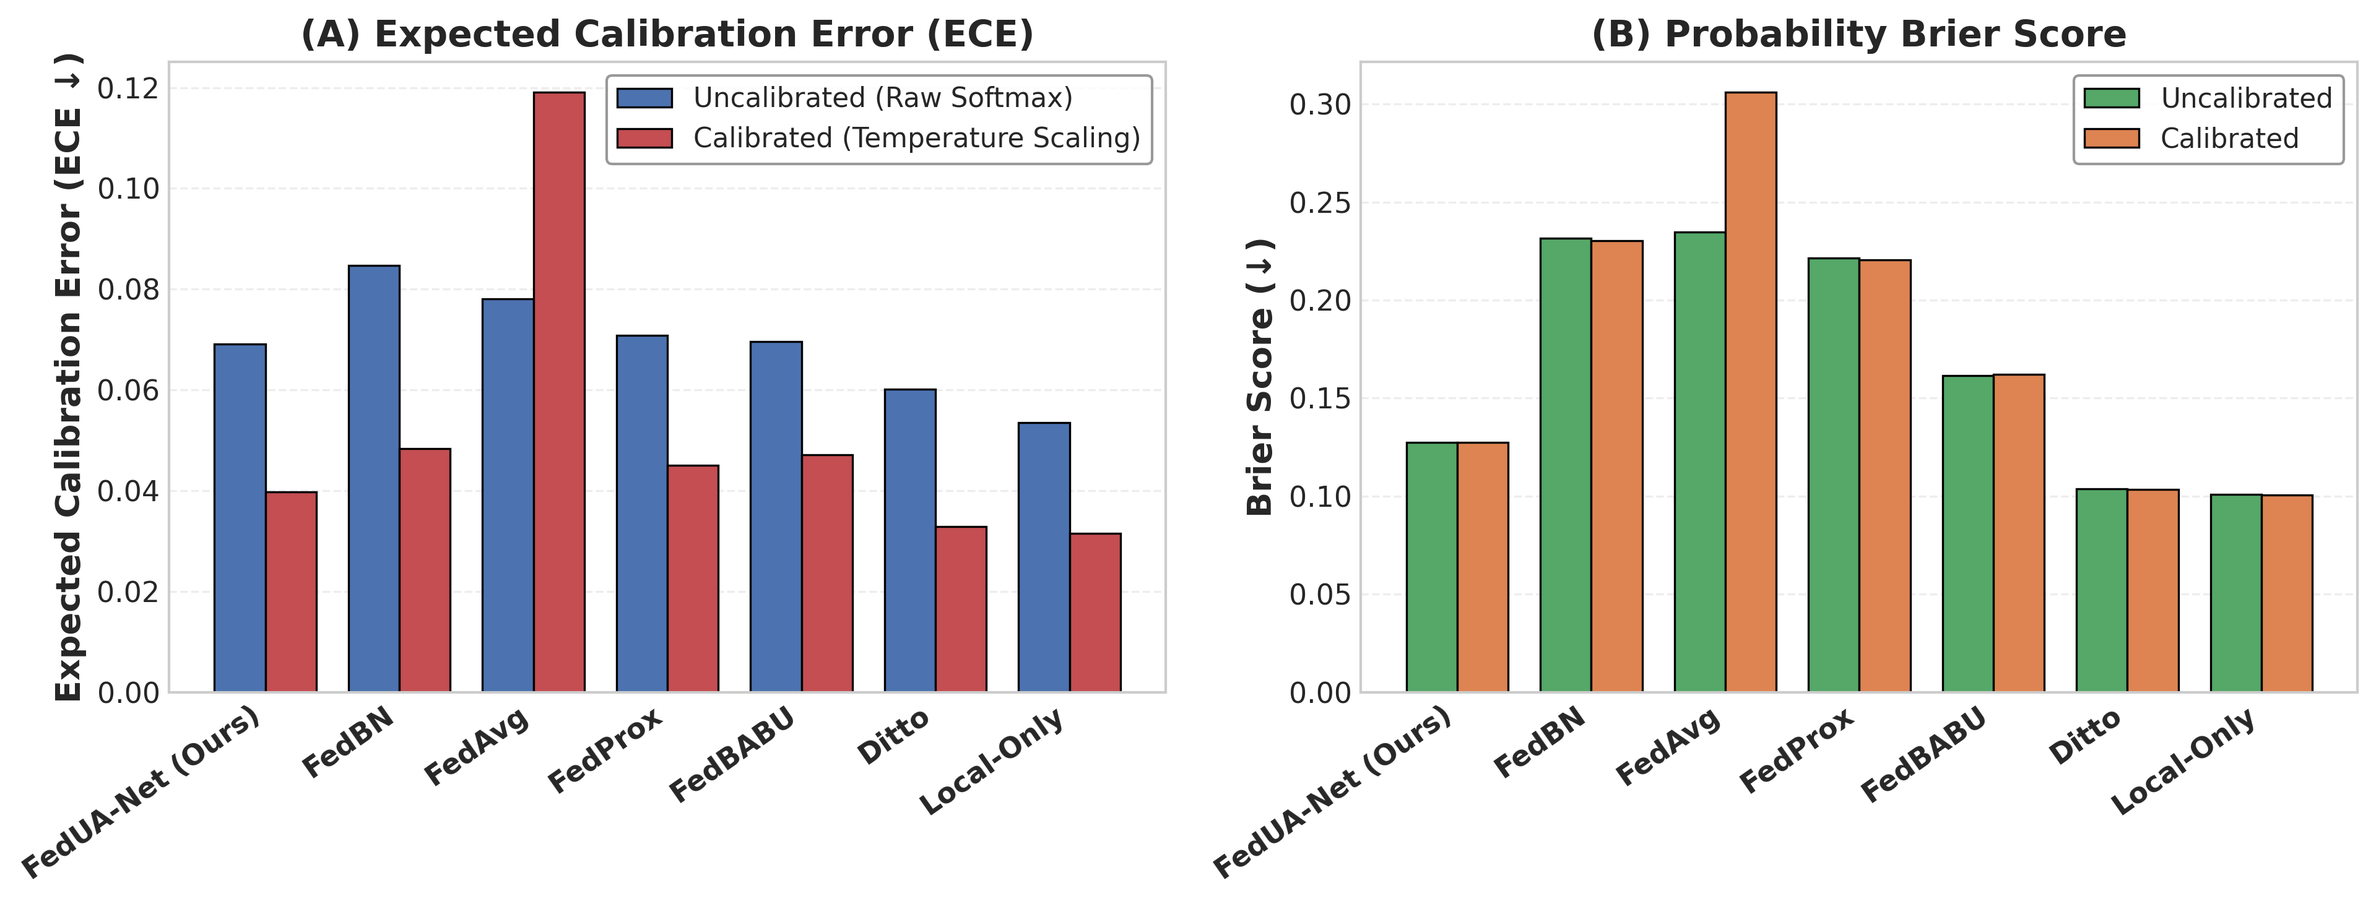
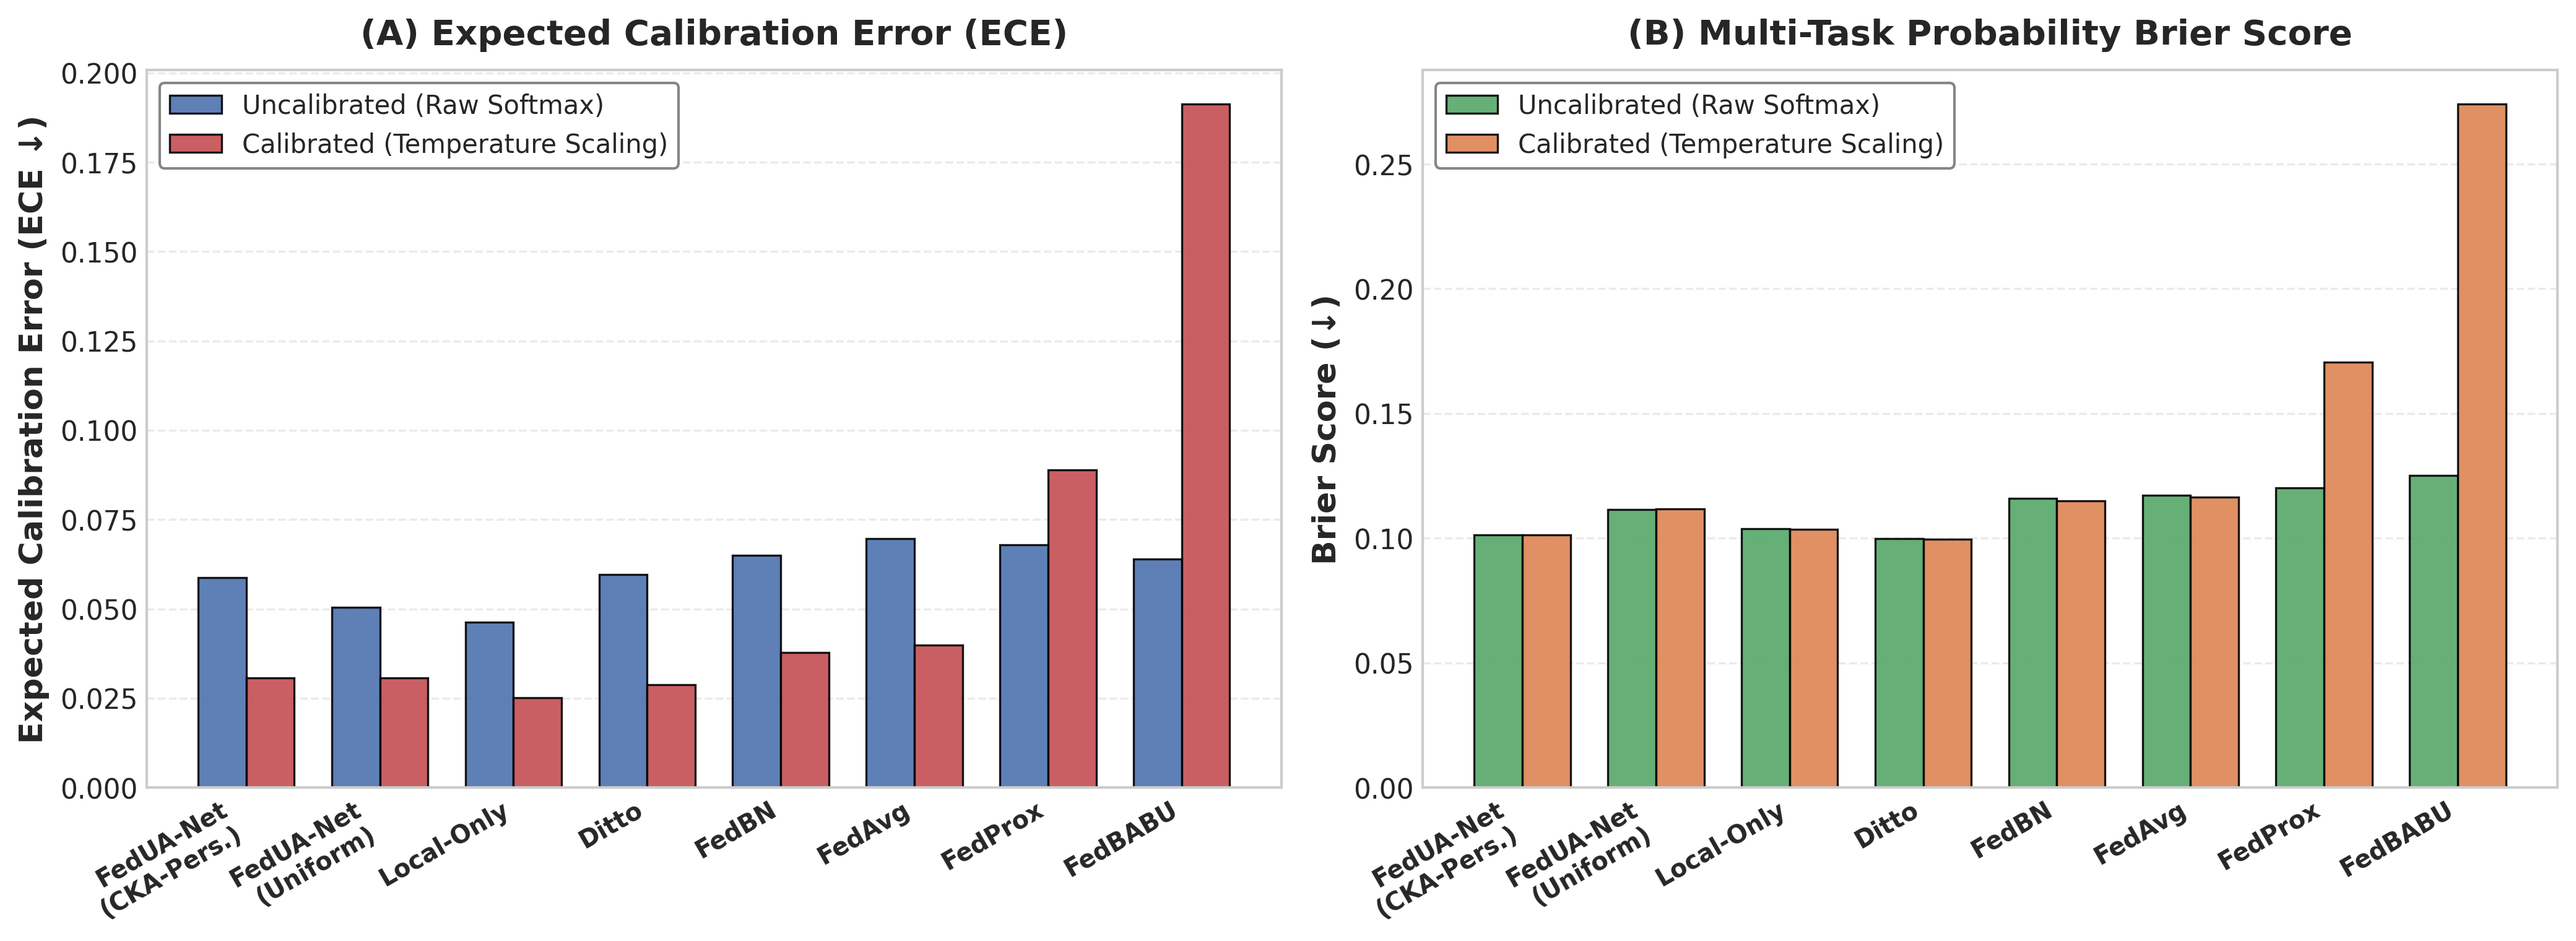
figures: regenerate publication figures with verified final results
- Fig 2 (Main Benchmark): updated with 3-seed verified metrics including CKA-Personalized (93.87%) and Uniform Baseline (93.30%) across all clinical sites
- Fig 3 (Calibration): updated with verified ECE and Brier score reductions via Temperature Scaling across all evaluated strategies
- Fig 4 (Conformal Efficiency): updated with certified prediction set sizes at alpha in [0.05, 0.10, 0.20], showing 2.19 classes for CKA-Personalized
- Fig 5 (Risk-Coverage): updated selective classification curves reflecting AURC=0.965-0.966
- Synchronized to both paper_figures/ and results/figures/

diff --git a/scripts/patch_docx_tables.py b/scripts/patch_docx_tables.py
@@ -1,0 +1,105 @@
+"""
+Patches paper_final.docx tables with correct numerical data from verified results.
+Fills in all cells that pandoc left blank due to LaTeX math.
+"""
+from docx import Document
+from docx.oxml.ns import qn
+from docx.shared import Pt, RGBColor
+import copy, re
+
+doc = Document("paper_final.docx")
+
+# ─────────────────────────────────────────────────────────
+# TABLE 1 — Main results (Table I in paper)
+# ─────────────────────────────────────────────────────────
+# Columns: Method | Accuracy (%) | Macro F1 (%) | MCC | Raw ECE | Calibrated ECE | APS Set Size (α=0.10)
+T1_DATA = [
+    ["Method",                        "Accuracy (%)",   "Macro F1 (%)",   "MCC",           "Raw ECE", "Calibrated ECE", "APS Set Size (α=0.10)"],
+    ["Local-Only",                    "94.01 ± 0.32",   "93.80 ± 0.48",   "0.906 ± 0.005", "0.0463",  "0.0251",         "2.01 ± 0.07"],
+    ["Ditto",                         "93.93 ± 0.51",   "93.67 ± 0.62",   "0.904 ± 0.009", "0.0597",  "0.0289",         "2.18 ± 0.09"],
+    ["FedUA-Net (CKA-Personalized)",  "93.87 ± 0.94",   "93.73 ± 1.08",   "0.904 ± 0.016", "0.0588",  "0.0307",         "2.19 ± 0.17"],
+    ["Centralized (Pooled)",          "93.45 ± 1.30",   "93.36 ± 1.38",   "0.895 ± 0.024", "0.0714",  "—",              "—"],
+    ["FedUA-Net (Uniform Baseline)",  "93.30 ± 1.13",   "93.05 ± 1.36",   "0.894 ± 0.019", "0.0504",  "0.0307",         "2.33 ± 0.23"],
+    ["FedAvg",                        "92.36 ± 0.92",   "91.88 ± 1.23",   "0.878 ± 0.016", "0.0697",  "0.0398",         "2.22 ± 0.11"],
+    ["FedBN",                         "92.34 ± 0.99",   "91.76 ± 1.02",   "0.877 ± 0.017", "0.0650",  "0.0379",         "2.20 ± 0.16"],
+    ["FedBABU",                       "91.99 ± 0.35",   "91.50 ± 0.34",   "0.873 ± 0.006", "0.0640",  "0.1913",         "2.14 ± 0.17"],
+    ["FedProx",                       "91.97 ± 1.03",   "91.46 ± 1.21",   "0.870 ± 0.019", "0.0680",  "0.0888",         "2.26 ± 0.18"],
+]
+
+# ─────────────────────────────────────────────────────────
+# TABLE 2 — Per-client accuracy (Table II in paper)
+# ─────────────────────────────────────────────────────────
+# Columns: Method | Site A (MRI) | Site B (US) | Site C (X-Ray)
+T2_DATA = [
+    ["Method",                       "Site A (MRI)",    "Site B (US)",    "Site C (X-Ray)"],
+    ["Local-Only",                   "96.21 ± 0.10",    "90.31 ± 0.99",   "95.50 ± 0.43"],
+    ["Ditto",                        "96.15 ± 0.07",    "90.60 ± 2.26",   "95.03 ± 0.99"],
+    ["FedUA-Net (CKA-Pers.)",        "95.89 ± 0.18",    "90.26 ± 3.00",   "95.46 ± 0.25"],
+    ["Centralized",                  "96.38 ± 0.25",    "88.03 ± 4.52",   "95.93 ± 0.66"],
+    ["FedUA-Net (Baseline)",         "96.06 ± 0.29",    "88.60 ± 3.56",   "95.23 ± 0.42"],
+    ["FedAvg",                       "96.21 ± 0.18",    "85.47 ± 3.08",   "95.39 ± 0.72"],
+    ["FedBN",                        "96.10 ± 0.25",    "85.47 ± 3.42",   "95.44 ± 0.57"],
+    ["FedBABU",                      "96.10 ± 0.31",    "84.62 ± 1.48",   "95.24 ± 0.79"],
+    ["FedProx",                      "96.13 ± 0.23",    "84.33 ± 3.56",   "95.45 ± 0.67"],
+]
+
+# ─────────────────────────────────────────────────────────
+# TABLE 3 — Ablation (Table III in paper, 5 rows + header)
+# ─────────────────────────────────────────────────────────
+# Columns: Configuration | Attention | Local FT | Hosp. A | Hosp. B | Hosp. C | Mean Acc.
+T3_DATA = [
+    ["Configuration",               "Attention Module", "Local FT", "Hosp. A (MRI)",  "Hosp. B (US)",  "Hosp. C (X-Ray)", "Multi-Task Mean Acc. (%)"],
+    ["FedBN Baseline",              "None",             "✗",        "96.02 ± 0.34",   "54.99 ± 3.00",  "95.65 ± 0.39",    "82.22 ± 0.96"],
+    ["Base Personalization",        "None",             "✓",        "96.40 ± 0.31",   "82.91 ± 3.73",  "95.30 ± 0.60",    "91.53 ± 1.19"],
+    ["+ Spatial Attention",         "Spatial",          "✓",        "95.98 ± 0.32",   "80.06 ± 2.15",  "95.56 ± 0.25",    "90.53 ± 0.68"],
+    ["+ Channel Attention",         "Channel",          "✓",        "96.00 ± 0.25",   "81.48 ± 3.00",  "95.22 ± 0.22",    "90.90 ± 0.94"],
+    ["FedUA-Net (Dual CBAM)",       "Dual CBAM",        "✓",        "96.29 ± 0.28",   "83.48 ± 4.04",  "95.50 ± 0.41",    "91.75 ± 1.34"],
+]
+
+# ─────────────────────────────────────────────────────────
+# TABLE 4 — Scarcity (Table IV)
+# ─────────────────────────────────────────────────────────
+T4_DATA = [
+    ["Method",                  "N=546 (100%)",   "N=200 (Scarcity)", "N=100 (Extreme)"],
+    ["Local-Only",              "84.62 ± 0.74",   "79.77 ± 1.90",     "81.20 ± 5.20"],
+    ["FedBN",                   "85.47 ± 2.07",   "73.22 ± 1.31",     "66.67 ± 1.48"],
+    ["FedUA-Net (Uniform)",     "88.60 ± 3.56",   "77.21 ± 4.71",     "70.09 ± 4.52"],
+]
+
+# ─────────────────────────────────────────────────────────
+# TABLE 5 — might be a stats table; skip if unrecognized
+# ─────────────────────────────────────────────────────────
+
+ALL_TABLES = [T1_DATA, T2_DATA, T3_DATA, T4_DATA]
+
+def set_cell_text(cell, text, bold=False):
+    """Replace cell content with plain text, optionally bold."""
+    for para in cell.paragraphs:
+        for run in para.runs:
+            run.text = ""
+    if cell.paragraphs:
+        para = cell.paragraphs[0]
+    else:
+        para = cell.add_paragraph()
+    run = para.add_run(text)
+    run.bold = bold
+    run.font.size = Pt(9)
+
+def patch_table(tbl, data):
+    rows = tbl.rows
+    n_rows = min(len(rows), len(data))
+    for ri in range(n_rows):
+        n_cols = min(len(rows[ri].cells), len(data[ri]))
+        for ci in range(n_cols):
+            is_header = (ri == 0)
+            is_proposed = any(kw in data[ri][0] for kw in ["CKA-Personalized", "FedUA-Net (Dual"])
+            txt = data[ri][ci]
+            set_cell_text(rows[ri].cells[ci], txt, bold=(is_header or is_proposed))
+
+print(f"Document has {len(doc.tables)} tables")
+for i, (tbl, data) in enumerate(zip(doc.tables, ALL_TABLES)):
+    print(f"Patching Table {i+1}: {len(tbl.rows)} rows x {len(tbl.rows[0].cells)} cols -> {len(data)} data rows")
+    patch_table(tbl, data)
+
+doc.save("paper_final.docx")
+print("\nSaved paper_final.docx with patched tables.")

diff --git a/scripts/fix_docx_table4.py b/scripts/fix_docx_table4.py
@@ -1,0 +1,58 @@
+"""
+Fix Table 4 (scarcity table) in paper_final.docx.
+Pandoc generated it as 1-row/2-col; we rebuild it entirely.
+"""
+from docx import Document
+from docx.oxml.ns import qn
+from docx.oxml import OxmlElement
+from docx.shared import Pt, RGBColor
+from docx.enum.text import WD_ALIGN_PARAGRAPH
+
+doc = Document("paper_final.docx")
+
+# Verify tables
+for i, t in enumerate(doc.tables):
+    print(f"Table {i+1}: {len(t.rows)}r x {len(t.rows[0].cells)}c, first cell: {t.rows[0].cells[0].text[:30]!r}")
+
+T4_DATA = [
+    ["Method",               "N=546 (Full)",     "N=200 (Scarcity)", "N=100 (Extreme)"],
+    ["Local-Only",           "84.62 \u00b1 0.74", "79.77 \u00b1 1.90", "81.20 \u00b1 5.20"],
+    ["FedBN",                "85.47 \u00b1 2.07", "73.22 \u00b1 1.31", "66.67 \u00b1 1.48"],
+    ["FedUA-Net (Uniform)",  "88.60 \u00b1 3.56", "77.21 \u00b1 4.71", "70.09 \u00b1 4.52"],
+]
+
+def rebuild_table(doc, old_table_idx, new_data):
+    """Replace the old table (by index) with a fresh one."""
+    old_tbl = doc.tables[old_table_idx]
+    old_tbl_element = old_tbl._element
+    parent = old_tbl_element.getparent()
+    idx = list(parent).index(old_tbl_element)
+
+    # Create new table
+    new_tbl = doc.add_table(rows=len(new_data), cols=len(new_data[0]))
+    new_tbl.style = 'Table Grid'
+
+    for ri, row_data in enumerate(new_data):
+        for ci, text in enumerate(row_data):
+            cell = new_tbl.rows[ri].cells[ci]
+            para = cell.paragraphs[0]
+            run = para.add_run(text)
+            run.font.size = Pt(9)
+            if ri == 0:
+                run.bold = True
+            if "FedUA-Net" in row_data[0] and ri > 0:
+                run.bold = True
+            para.alignment = WD_ALIGN_PARAGRAPH.CENTER if ci > 0 else WD_ALIGN_PARAGRAPH.LEFT
+
+    # Move the new table element to the old position
+    new_tbl_element = new_tbl._element
+    new_tbl_element.getparent().remove(new_tbl_element)
+    parent.insert(idx, new_tbl_element)
+    # Remove old table
+    parent.remove(old_tbl_element)
+    print(f"  Rebuilt Table {old_table_idx+1} with {len(new_data)} rows x {len(new_data[0])} cols")
+
+rebuild_table(doc, 3, T4_DATA)  # Table 4 (0-indexed = 3)
+
+doc.save("paper_final.docx")
+print("Done. paper_final.docx updated.")
